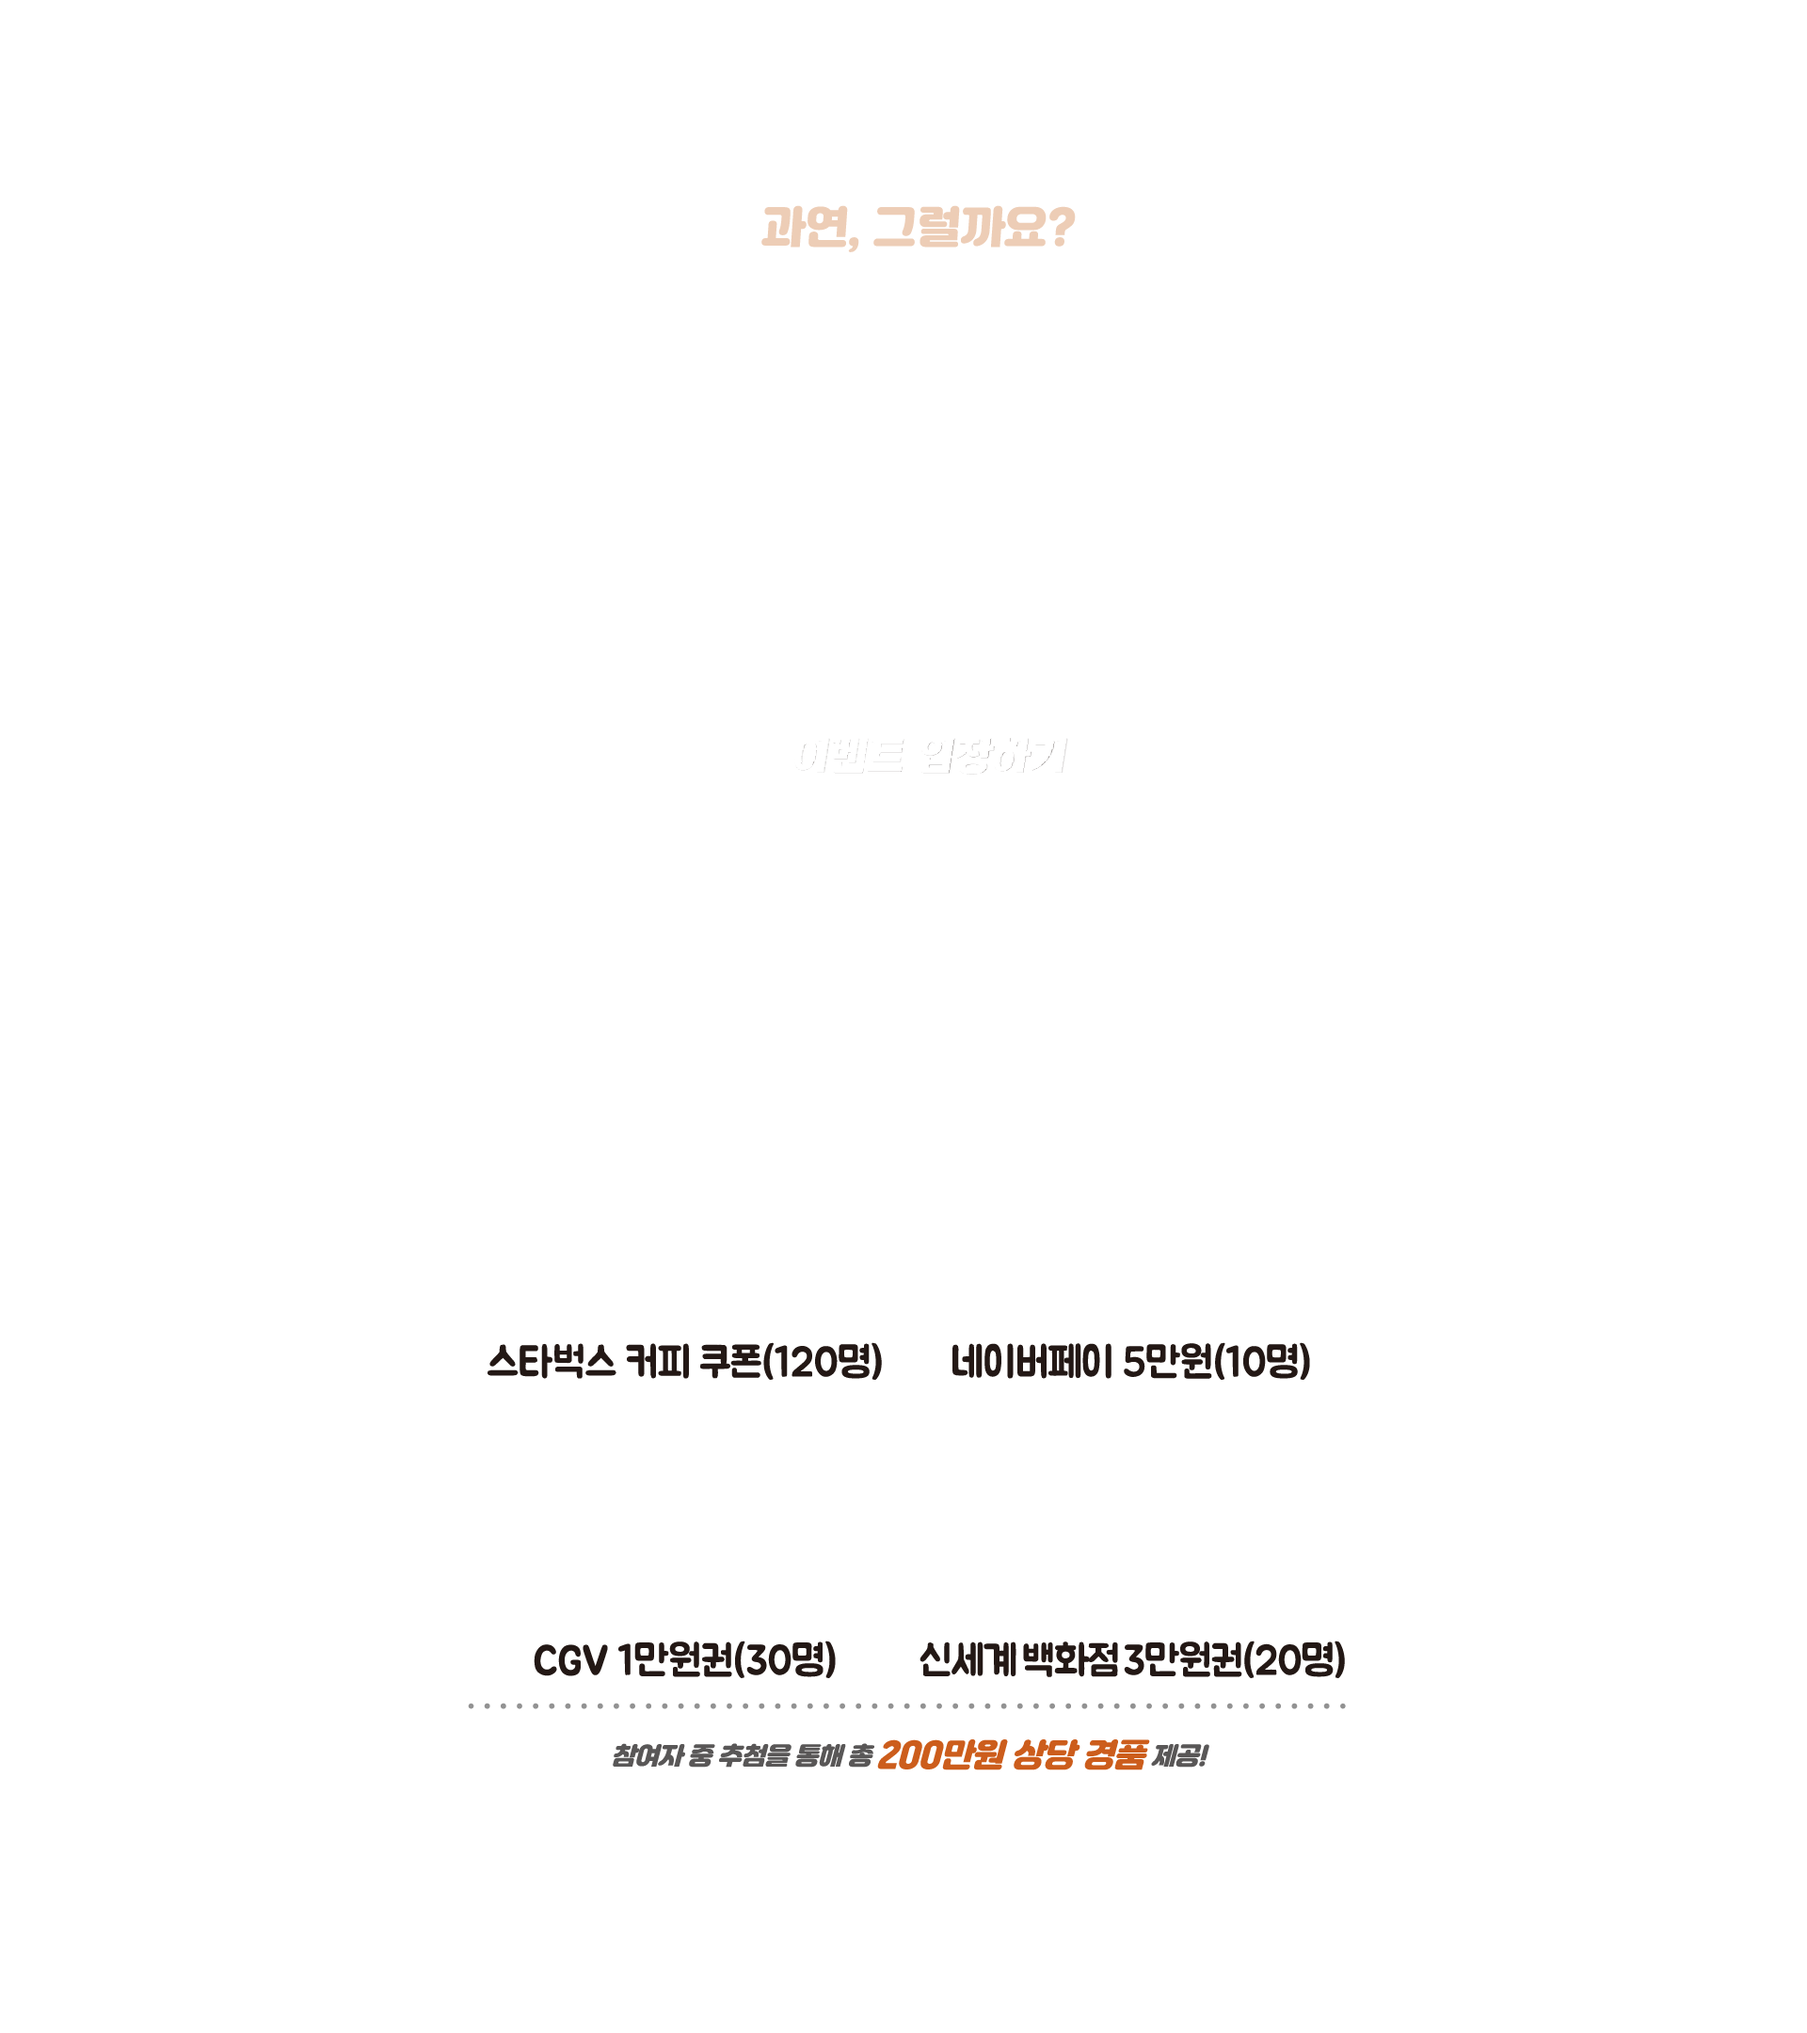
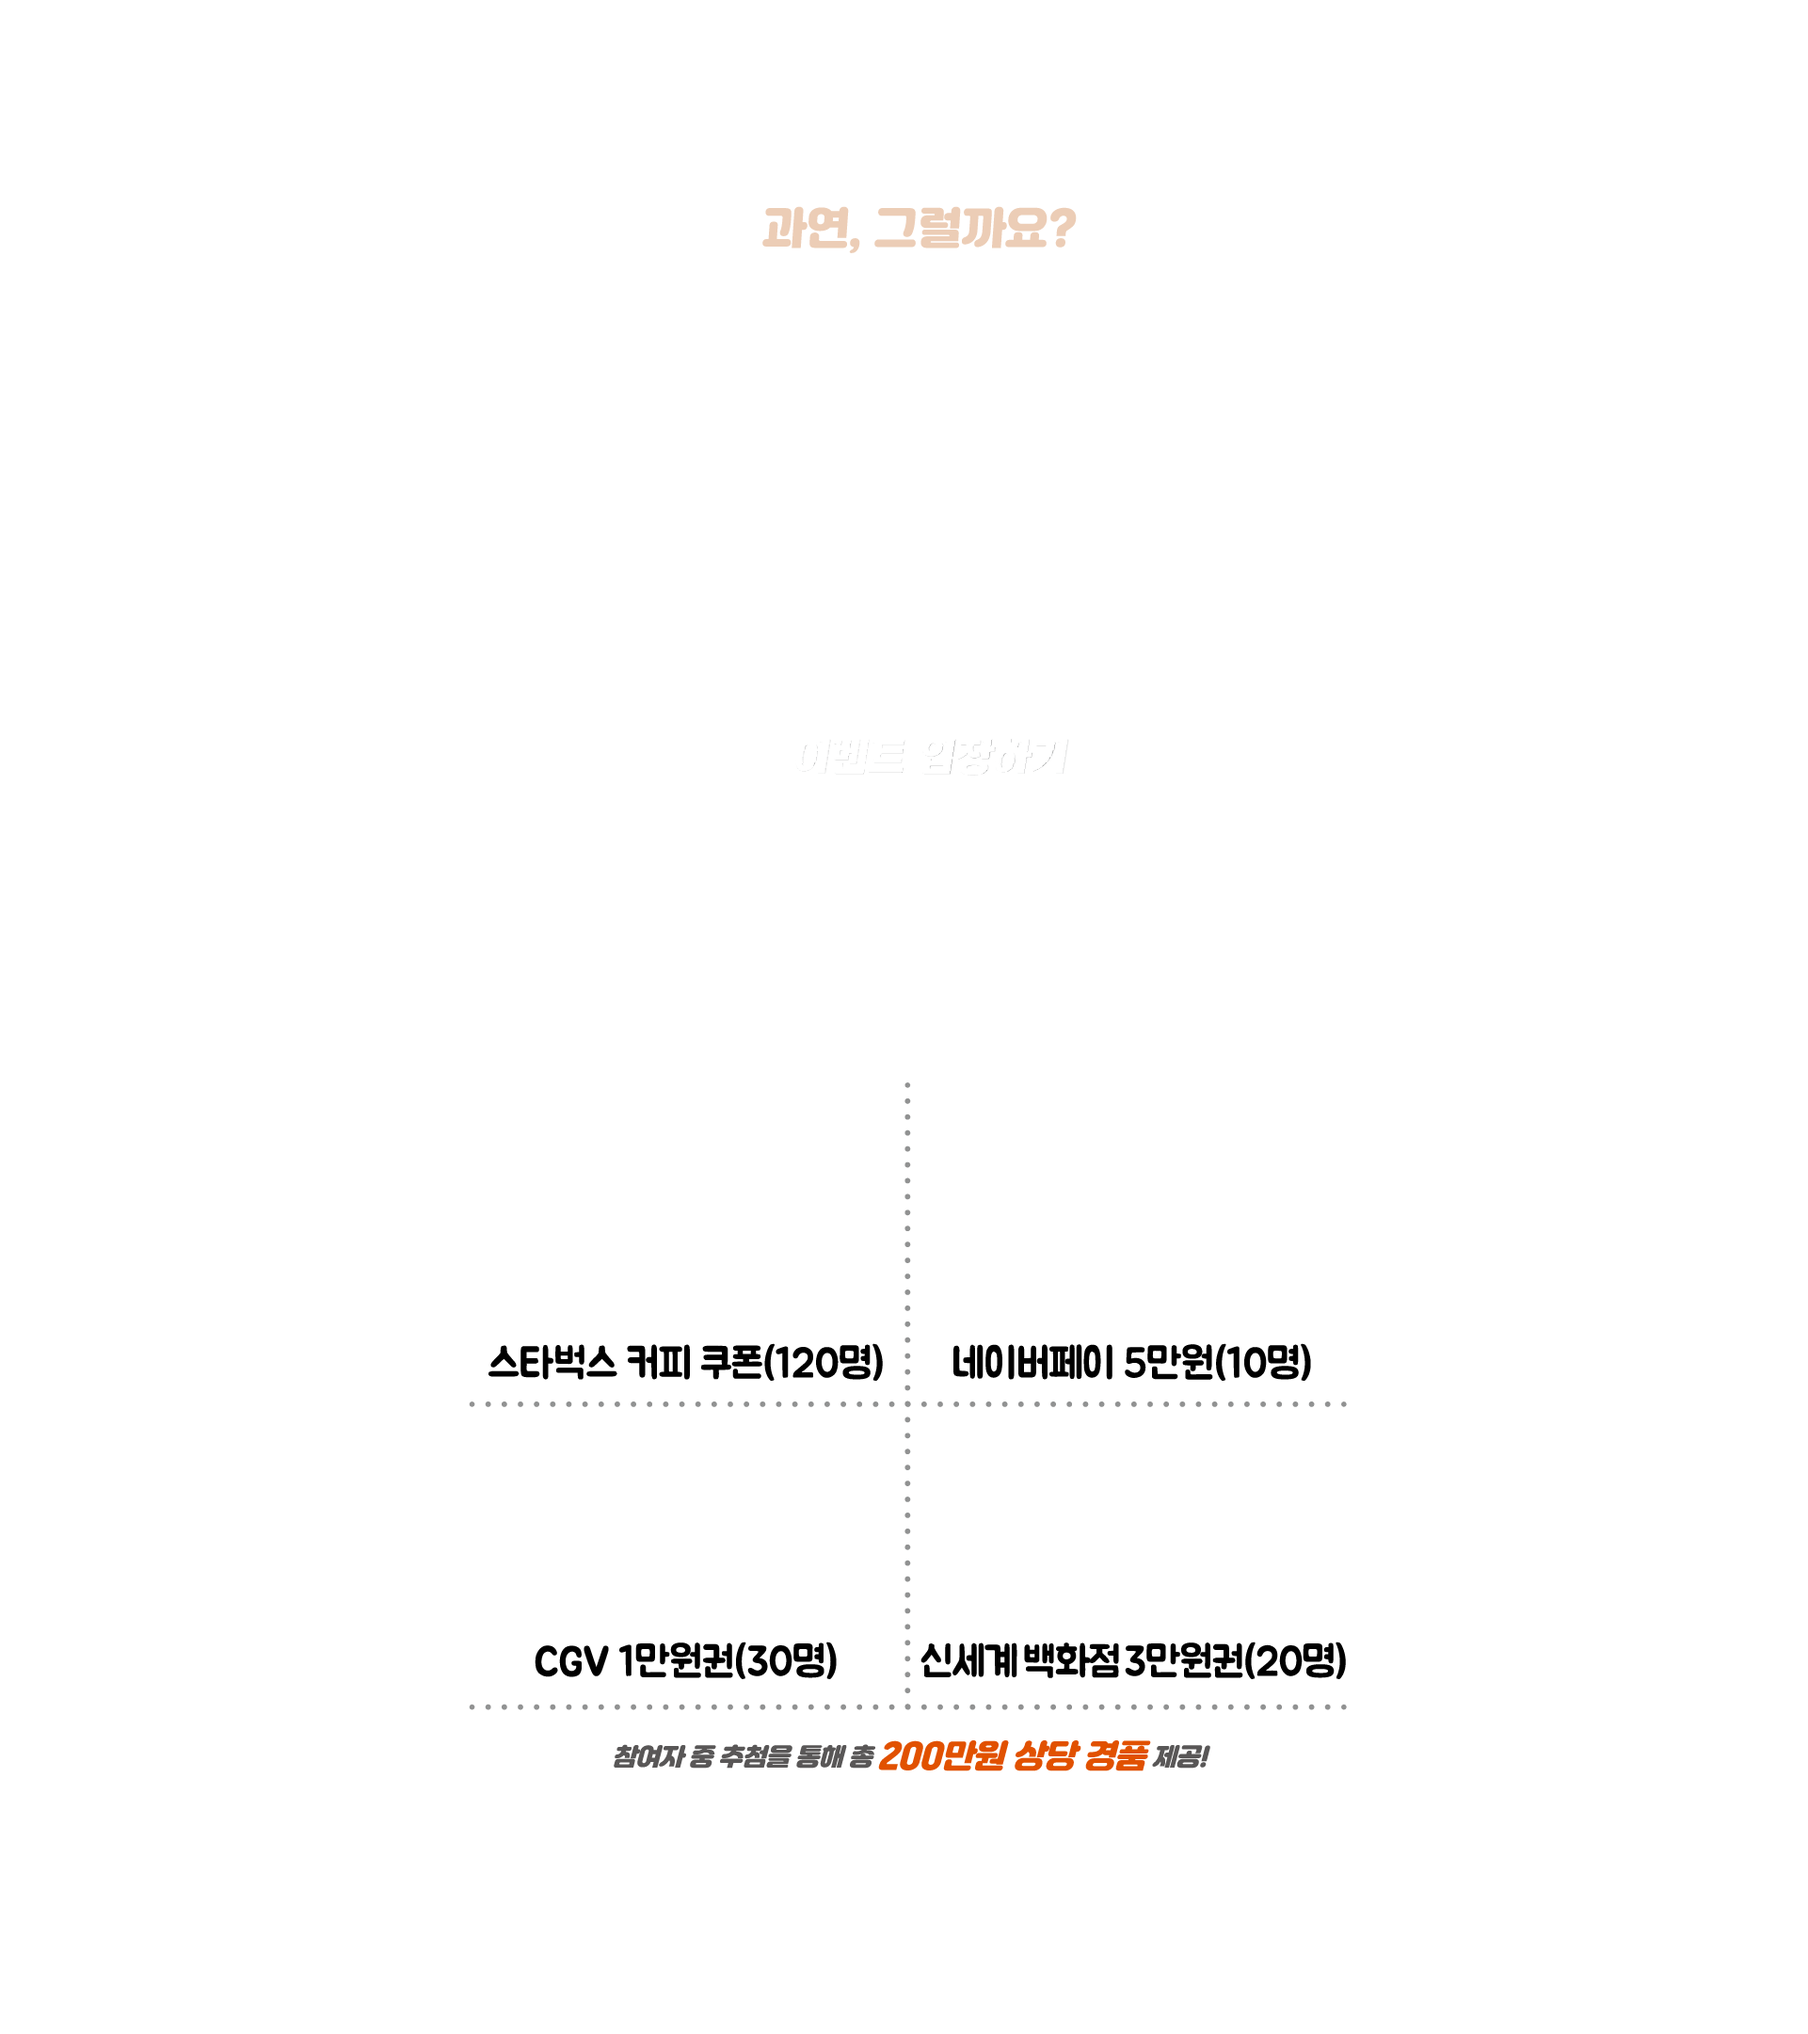
인트로 페이지 수정

diff --git a/css/style.css b/css/style.css
@@ -684,41 +684,50 @@ img {
 
   /* 입장하기 버튼 이미지 (1093×473) */
   .main-btn-layer {
-    top: 28%; /* TODO: 조정 필요 */
-    left: 24.5%; /* (1920-1093)/2/1920 */
-    width: 56.9%; /* 1093/1920 */
+    top: 23.8%; /* TODO: 조정 필요 */
+    left: 26.5%; /* (1920-1093)/2/1920 */
+    width: 51.9%; /* 1093/1920 */
     z-index: 10;
+  }
+
+  /* 경품 장식 (675×197) — 경품 박스 위 */
+  .main-prize-deco {
+    top: 35%; /* TODO: 조정 필요 */
+    left: 32.4%; /* (1920-675)/2/1920 */
+    width: 35.2%; /* 675/1920 */
+    z-index: 45;
   }
 
   /* 경품 박스 배경 (978×827) — 중앙 배치 */
   .main-prize-box {
-    top: 62%; /* TODO: 조정 필요 */
-    left: 24.5%; /* (1920-978)/2/1920 */
+    top: 43%; /* TODO: 조정 필요 */
+    left: 25%; /* (1920-978)/2/1920 */
     width: 50.9%; /* 978/1920 */
-    height: 50%;
+    height: 35%;
     z-index: 20;
   }
 
   /* 경품 1~4 (각 757×549) — 2×2 배치 */
   .main-prize {
-    width: 23%; /* ~442/1920 */
+    width: 31%; /* ~442/1920 */
     z-index: 30;
   }
   .main-prize-1 {
-    top: 66%;
-    left: 26%;
+    top: 39%;
+    left: 24%;
   } /* TODO: 조정 필요 */
   .main-prize-2 {
-    top: 66%;
-    left: 52%;
+    width: 26%; /* ~442/1920 */
+    top: 42.3%;
+    left: 49%;
   } /* TODO: 조정 필요 */
   .main-prize-3 {
-    top: 79%;
-    left: 26%;
+    top: 54%;
+    left: 24%;
   } /* TODO: 조정 필요 */
   .main-prize-4 {
-    top: 79%;
-    left: 52%;
+    top: 55%;
+    left: 46%;
   } /* TODO: 조정 필요 */
 
   /* 텍스트 오버레이 (1920×2160) — 전체 캔버스 최상단 */

diff --git a/index.html b/index.html
@@ -168,6 +168,15 @@
             draggable="false"
           />
 
+          <!-- PC 전용: 경품 장식 (675×197) -->
+          <img
+            class="main-layer main-prize-deco"
+            src="image/main/item/경품 장식.png"
+            alt=""
+            aria-hidden="true"
+            draggable="false"
+          />
+
           <!-- PC 전용: 경품 박스 배경 (978×827) -->
           <img
             class="main-layer main-prize-box"
